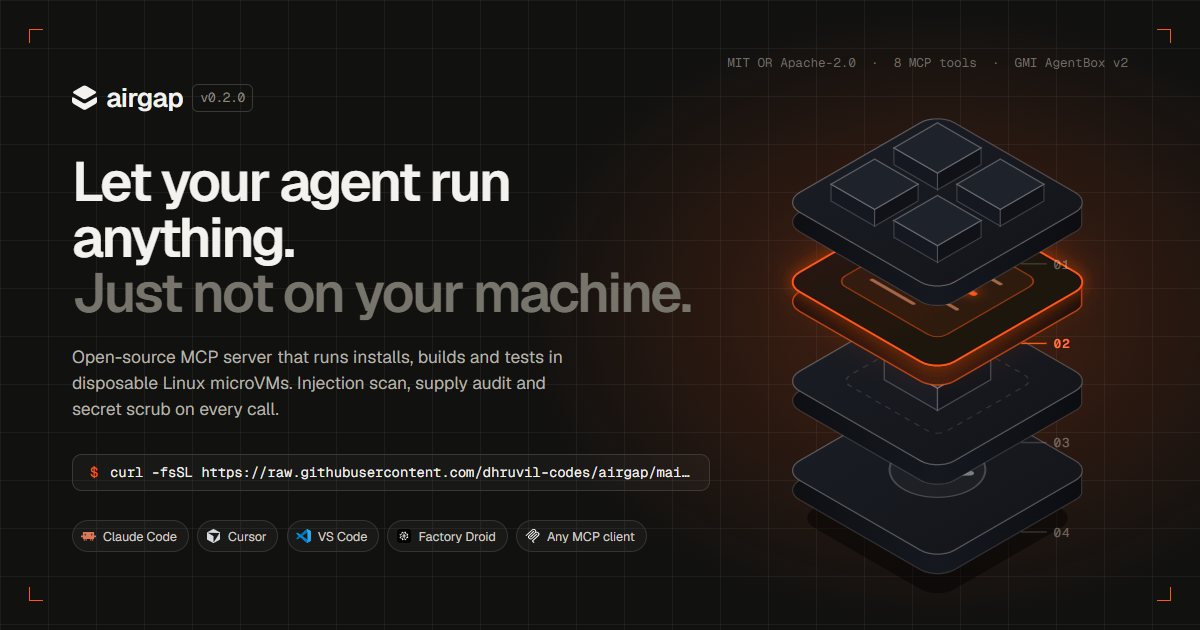
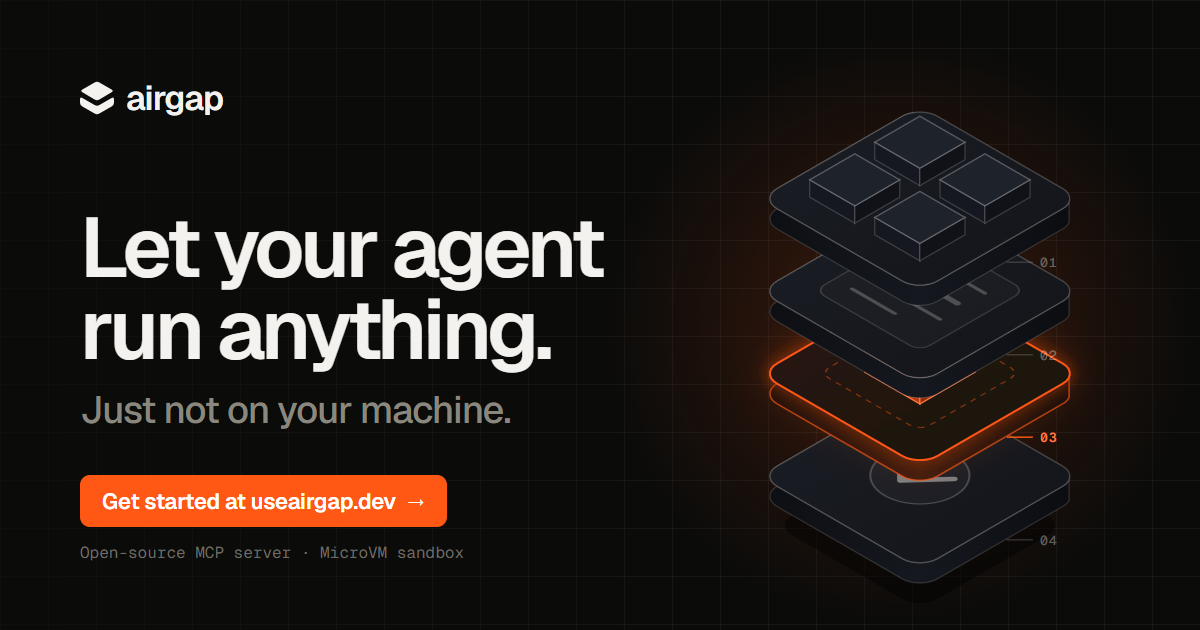
feat(website): new social card and tighter meta tags
Add a dedicated 1200x630 OG image (/?og) with a clear call to action,
modelled on minimal product cards, and regenerate public/og.png.
Shorten the page title and og/twitter titles under 60 characters and
lengthen the meta description to the 120-160 character range.

diff --git a/website/index.html b/website/index.html
@@ -3,11 +3,8 @@
   <head>
     <meta charset="UTF-8" />
     <meta name="viewport" content="width=device-width, initial-scale=1.0" />
-    <title>airgap: run your coding agent's commands in disposable Linux microVMs</title>
-    <meta
-      name="description"
-      content="airgap is an open-source Rust MCP server that runs your coding agent's installs, builds and tests in single-use Linux microVMs on GMI Cloud, with injection scans, supply-chain audits and secret scrubbing."
-    />
+    <title>airgap: Run your coding agent in disposable microVMs</title>
+    <meta name="description" content="Open-source MCP server that runs your coding agent's installs, builds and tests in disposable Linux microVMs, with injection scans and secret scrubbing." />
     <meta name="theme-color" content="#f3f2ee" />
     <link rel="icon" type="image/svg+xml" href="%BASE_URL%favicon.svg" />
     <link rel="alternate" type="text/markdown" href="%BASE_URL%index.md" title="airgap (Markdown)" />
@@ -17,22 +14,17 @@
     <meta property="og:type" content="website" />
     <meta property="og:site_name" content="airgap" />
     <meta property="og:url" content="https://www.useairgap.dev/" />
-    <meta property="og:title" content="airgap: let your agent run anything, just not on your machine" />
-    <meta
-      property="og:description"
-      content="Open-source MCP server that moves Claude Code, Cursor, VS Code and Factory Droid executions into disposable Linux microVMs."
-    />
+    <meta property="og:title" content="Let your agent run anything. Just not on your machine." />
+    <meta property="og:description" content="airgap moves Claude Code, Cursor, VS Code and Factory Droid commands into disposable Linux microVMs, with injection scans, supply audits and secret scrubbing." />
     <meta property="og:image" content="https://www.useairgap.dev/og.png" />
     <meta property="og:image:width" content="1200" />
     <meta property="og:image:height" content="630" />
-    <meta property="og:image:alt" content="airgap: Let your agent run anything. Just not on your machine." />
+    <meta property="og:image:alt" content="airgap: Let your agent run anything. Just not on your machine. Get started at useairgap.dev" />
     <meta name="twitter:card" content="summary_large_image" />
-    <meta name="twitter:title" content="airgap: let your agent run anything, just not on your machine" />
-    <meta
-      name="twitter:description"
-      content="Disposable Linux microVMs for coding agents, with injection scans, supply audits and secret scrubbing."
-    />
+    <meta name="twitter:title" content="Let your agent run anything. Just not on your machine." />
+    <meta name="twitter:description" content="airgap moves Claude Code, Cursor, VS Code and Factory Droid commands into disposable Linux microVMs, with injection scans, supply audits and secret scrubbing." />
     <meta name="twitter:image" content="https://www.useairgap.dev/og.png" />
+    <meta name="twitter:image:alt" content="airgap: Let your agent run anything. Just not on your machine. Get started at useairgap.dev" />
 
     <script type="application/ld+json">
       {

diff --git a/website/src/site.css b/website/src/site.css
@@ -3096,9 +3096,6 @@ a:hover > .star-ic {
   fill: rgba(255, 87, 20, 0.45);
   stroke: var(--accent);
 }
-.og-solo .og-actions {
-  display: none;
-}
 .og-foot {
   position: absolute;
   right: 6cqw;
@@ -3108,16 +3105,98 @@ a:hover > .star-ic {
   color: #6f6c65;
 }
 
-/* Renders the banner alone at 1200x630 so it can be captured as /og.png */
-.og-solo {
+/* ---------- social card (/?og → public/og.png) ---------- */
+.ogi {
+  position: relative;
   width: 1200px;
   height: 630px;
+  overflow: hidden;
+  display: grid;
+  grid-template-columns: 640px 1fr;
+  background: #0b0b0a;
+  color: #f3f2ee;
 }
-.og-solo .og {
-  width: 1200px;
-  max-width: none;
+.ogi-bg {
+  position: absolute;
+  inset: 0;
+  background:
+    radial-gradient(420px 420px at 900px 330px, rgba(255, 87, 20, 0.2), transparent 70%),
+    linear-gradient(rgba(255, 255, 255, 0.045) 1px, transparent 1px) 0 0 / 48px 48px,
+    linear-gradient(90deg, rgba(255, 255, 255, 0.045) 1px, transparent 1px) 0 0 / 48px 48px;
+  mask-image: linear-gradient(90deg, rgba(0, 0, 0, 0.35), #000 55%);
 }
-
+.ogi-copy {
+  position: relative;
+  display: flex;
+  flex-direction: column;
+  padding: 72px 0 64px 80px;
+}
+.ogi-brand {
+  display: inline-flex;
+  align-items: center;
+  gap: 12px;
+  font-size: 34px;
+  font-weight: 600;
+  letter-spacing: -0.03em;
+}
+.ogi-title {
+  margin-top: auto;
+  font-size: 84px;
+  line-height: 0.98;
+  letter-spacing: -0.05em;
+  font-weight: 600;
+}
+.ogi-sub {
+  margin-top: 18px;
+  font-size: 38px;
+  line-height: 1.1;
+  letter-spacing: -0.03em;
+  font-weight: 500;
+  color: #8a877f;
+}
+.ogi-foot {
+  display: flex;
+  flex-direction: column;
+  align-items: flex-start;
+  gap: 14px;
+  margin-top: 44px;
+}
+.ogi-cta {
+  display: inline-flex;
+  align-items: center;
+  gap: 10px;
+  height: 52px;
+  padding: 0 22px;
+  border-radius: 10px;
+  background: var(--accent);
+  color: #fff;
+  font-size: 22px;
+  font-weight: 600;
+  letter-spacing: -0.01em;
+}
+.ogi-meta {
+  font-family: var(--mono);
+  font-size: 16px;
+  color: #6f6c65;
+}
+.ogi-art {
+  position: relative;
+  display: grid;
+  place-items: center;
+}
+.ogi-stack {
+  width: auto;
+  height: 600px;
+  overflow: visible;
+}
+.ogi-stack .iso-tag {
+  font-size: 9px;
+}
+.ogi .iso-spine-pulse {
+  animation: none;
+  stroke-dasharray: 28 240;
+  stroke-dashoffset: 140;
+}
 /* ---------- footer ---------- */
 .site-footer {
   border-top: 0;
@@ -3735,12 +3814,6 @@ a:hover > .star-ic {
 .og-clients img[src*="cursor"],
 .og-clients img[src*="mcp"] {
   filter: invert(1);
-}
-.og-solo .og-cmd .copy {
-  display: none;
-}
-.og-solo .og-cmd {
-  padding-right: 1.4cqw;
 }
 .og-clients img {
   width: max(12px, 1.2cqw);

diff --git a/website/src/sections/OgImage.tsx b/website/src/sections/OgImage.tsx
@@ -1,0 +1,32 @@
+import { Mark } from "../lib";
+import { GateStack } from "./GatesIso";
+
+/** Static 1200x630 social card, rendered alone at /?og and captured as public/og.png. */
+export function OgImage() {
+  return (
+    <div className="ogi" id="og-image">
+      <div className="ogi-bg" aria-hidden="true" />
+      <div className="ogi-copy">
+        <span className="ogi-brand">
+          <Mark size={34} />
+          airgap
+        </span>
+        <h1 className="ogi-title">
+          Let your agent
+          <br />
+          run anything.
+        </h1>
+        <p className="ogi-sub">Just not on your machine.</p>
+        <div className="ogi-foot">
+          <span className="ogi-cta">
+            Get started at useairgap.dev <span aria-hidden="true">→</span>
+          </span>
+          <span className="ogi-meta">Open-source MCP server · MicroVM sandbox</span>
+        </div>
+      </div>
+      <div className="ogi-art" aria-hidden="true">
+        <GateStack active={2} idp="ogi" className="ogi-stack" />
+      </div>
+    </div>
+  );
+}

diff --git a/website/src/App.tsx b/website/src/App.tsx
@@ -4,7 +4,8 @@ import { Header } from "./sections/Header";
 import { Hero } from "./sections/Hero";
 import { BentoSection } from "./sections/Bento";
 import { BoundarySection, FaqSection, GatesSection, SetupSection } from "./sections/Sections";
-import { CtaBanner, Footer, OgCard } from "./sections/Footer";
+import { CtaBanner, Footer } from "./sections/Footer";
+import { OgImage } from "./sections/OgImage";
 import GradualBlur from "@/components/GradualBlur";
 import { scrollToTarget } from "./smooth";
 import { BASE } from "./content";
@@ -48,11 +49,7 @@ export default function App() {
 
   if (new URLSearchParams(window.location.search).has("og")) {
     return (
-      <Tooltip.Provider>
-        <div className="og-solo">
-          <OgCard />
-        </div>
-      </Tooltip.Provider>
+      <OgImage />
     );
   }
   return (
